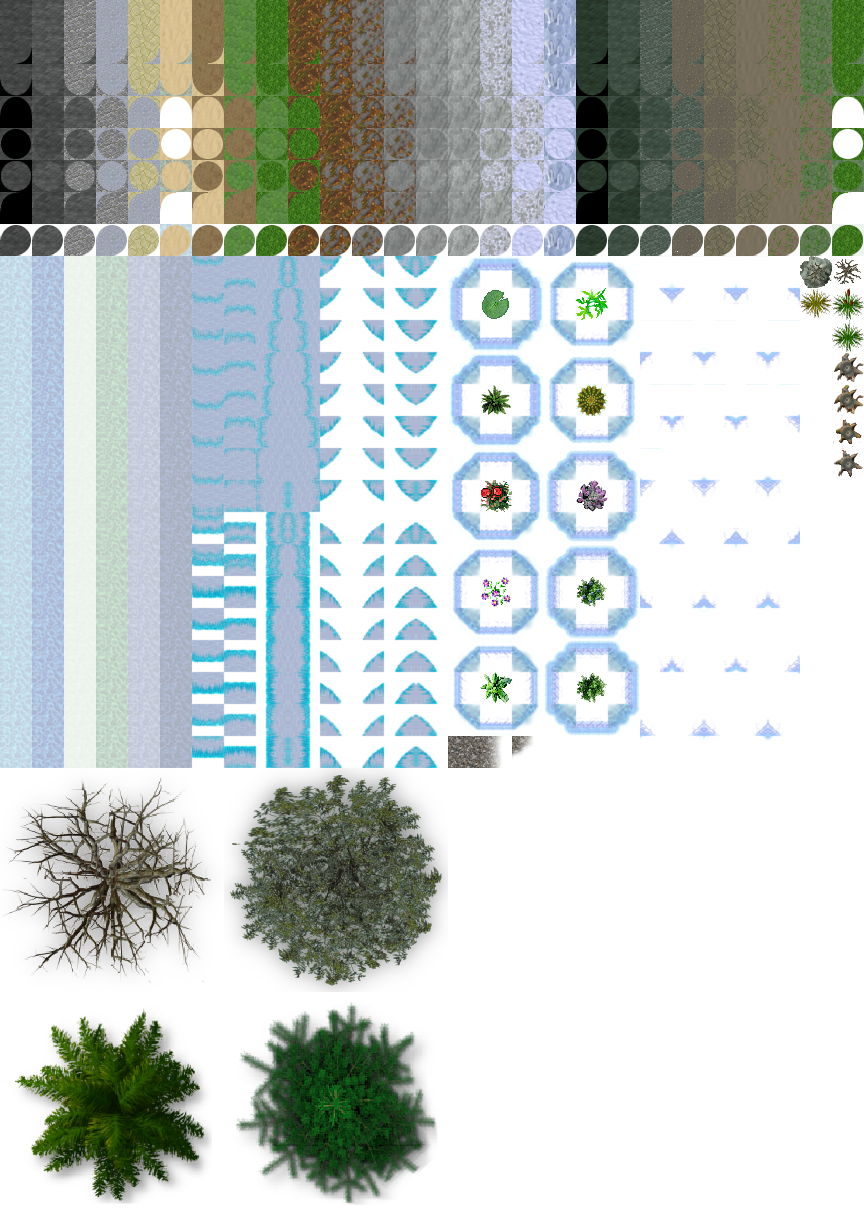
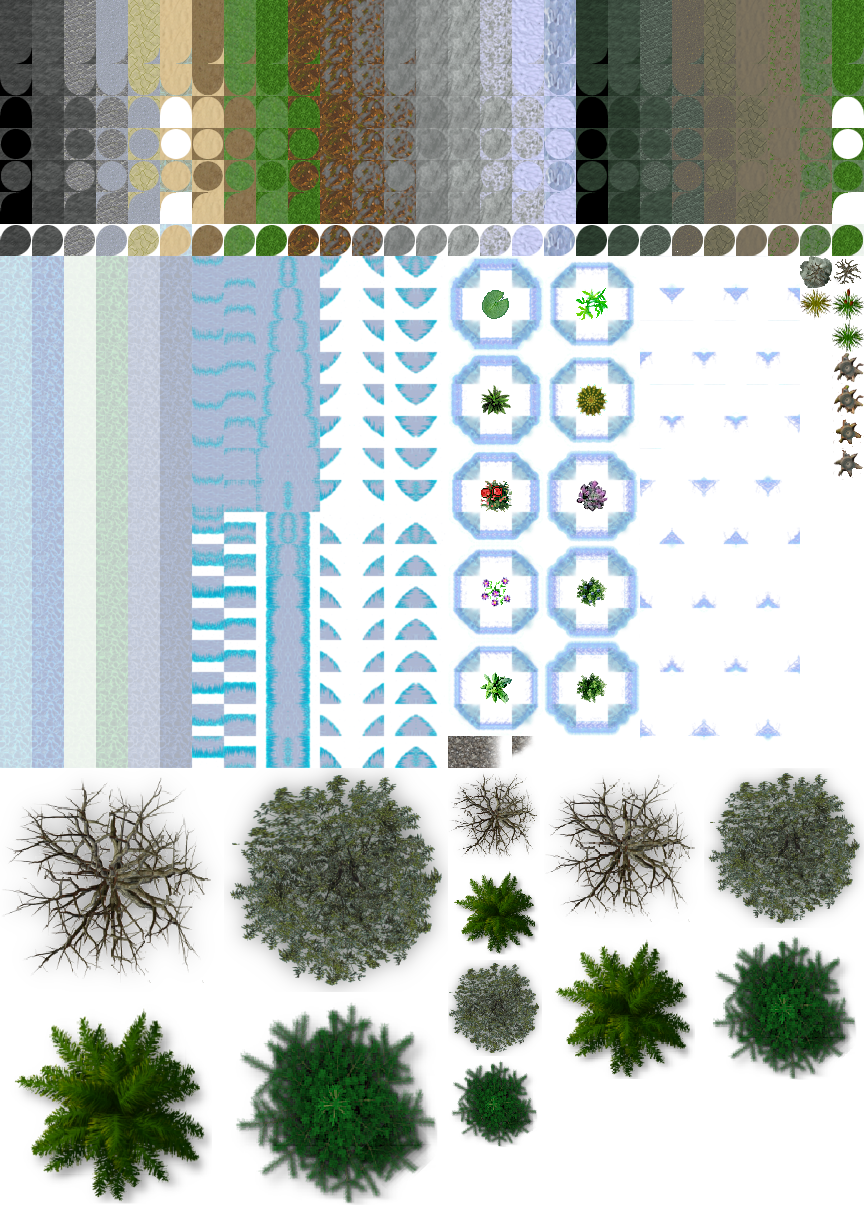
updated missing tree images
I replaced the wrong sprite sheet with the correct one, with all the tree sizes.

Changed region(s): [[0.5, 0.625, 1.0, 0.9688]]

diff --git a/main.py b/main.py
@@ -1009,7 +1009,6 @@ class Game:
         self.hud_hunger = 1
         self.hud_ammo1 = ''
         self.hud_ammo2 = ''
-        self.e_down = False
         self.draw_debug = False
         self.paused = False
         self.effects_sounds['level_start'].play()
@@ -1993,20 +1992,20 @@ class Game:
                     if hits[0].cost > 0:
                         if self.player.inventory['gold'] >= hits[0].cost:
                             self.message = 'Press ' + pg.key.name(self.key_map['interact']).upper() + ' to pay ' + str(hits[0].cost) + ' gold to sleep in bed.'
-                            if self.e_down:
+                            if self.player.e_down:
                                 self.player.inventory['gold'] -= hits[0].cost
                                 self.effects_sounds['cashregister'].play()
                                 self.sleep_in_bed()
                                 self.message_text = False
-                                self.e_down = False
+                                self.player.e_down = False
                         else:
                             self.message = 'You cannot afford this bed.'
                     else:
                         self.message = 'Press ' + pg.key.name(self.key_map['interact']).upper() + ' to sleep in bed.'
-                        if self.e_down:
+                        if self.player.e_down:
                             self.sleep_in_bed()
                             self.message_text = False
-                            self.e_down = False
+                            self.player.e_down = False
                 else:
                     self.message = 'You can not sleep in ' + hits[0].name + '.'
 
@@ -2015,17 +2014,17 @@ class Game:
             if hits:
                 self.message_text = True
                 self.message = pg.key.name(self.key_map['interact']).upper() + ' to use toilet'
-                if self.e_down:
+                if self.player.e_down:
                     self.use_toilet()
                     self.message_text = False
-                    self.e_down = False
+                    self.player.e_down = False
 
             # player hit corps
             hits = pg.sprite.spritecollide(self.player, self.corpses_on_screen, False)
             if hits:
                 self.message_text = True
                 self.message = pg.key.name(self.key_map['interact']).upper() + " to loot"
-                if self.e_down:
+                if self.player.e_down:
                     if not self.in_loot_menu:
                         self.in_loot_menu = True
                         self.in_menu = True
@@ -2047,26 +2046,26 @@ class Game:
                 self.message_text = True
                 if hits[0].locked:
                     self.message = hits[0].name + ' is locked. ' + pg.key.name(self.key_map['interact']).upper() + ' to unlock'
-                    if self.e_down:
+                    if self.player.e_down:
                         if not self.in_lock_menu:
                             self.in_lock_menu = self.in_menu = True
                             self.lock_menu = Lock_Menu(self, hits[0])
                             self.message_text = False
-                        self.e_down = False
+                        self.player.e_down = False
                 elif not hits[0].opened:
                     self.message = pg.key.name(self.key_map['interact']).upper() + ' to open'
-                    if self.e_down:
+                    if self.player.e_down:
                         hits[0].open = True
                         hits[0].close = False
                         self.message_text = False
-                        self.e_down = False
+                        self.player.e_down = False
                 elif hits[0].opened:
                     self.message = pg.key.name(self.key_map['interact']).upper() + ' to close'
-                    if self.e_down:
+                    if self.player.e_down:
                         hits[0].close = True
                         hits[0].open = False
                         self.message_text = False
-                        self.e_down = False
+                        self.player.e_down = False
 
             # player hit container
             hits = pg.sprite.spritecollide(self.player, self.containers, False)
@@ -2074,23 +2073,23 @@ class Game:
                 if not hits[0].inventory['locked']:
                     self.message_text = True
                     self.message = pg.key.name(self.key_map['interact']).upper() + ' to open'
-                    if self.e_down:
+                    if self.player.e_down:
                         if not self.in_loot_menu:
                             if hits[0] in self.chest_containers:
                                 self.effects_sounds['door open'].play()
                             self.in_loot_menu = True
                             self.loot_menu = Loot_Menu(self, hits[0])
                         self.message_text = False
-                        self.e_down = False
+                        self.player.e_down = False
                 else:
                     self.message_text = True
                     self.message = pg.key.name(self.key_map['interact']).upper() + ' to unlock'
-                    if self.e_down:
+                    if self.player.e_down:
                         if not self.in_lock_menu:
                             self.in_lock_menu = self.in_menu = True
                             self.lock_menu = Lock_Menu(self, hits[0])
                         self.message_text = False
-                        self.e_down = False
+                        self.player.e_down = False
 
 
             # Player is in talking range of NPC
@@ -2103,11 +2102,11 @@ class Game:
                             if now - self.last_dialogue > 2000:
                                 self.message_text = True
                                 self.message = pg.key.name(self.key_map['interact']).upper() + ' to talk'
-                                if self.e_down:
+                                if self.player.e_down:
                                     hits[0].target = self.player
                                     hits[0].talk_attempt = True
                                     self.message_text = False
-                                    self.e_down = False
+                                    self.player.e_down = False
             if self.dialogue_menu_npc:
                 self.dialogue_menu = Dialogue_Menu(self, self.dialogue_menu_npc)
 
@@ -2117,12 +2116,12 @@ class Game:
                 self.station_type = hits[0].kind
                 self.message_text = True
                 self.message = pg.key.name(self.key_map['interact']).upper() + ' to use ' + self.station_type
-                if self.e_down:
+                if self.player.e_down:
                     self.in_station_menu = True
                     self.in_menu = True
                     self.station_menu = Work_Station_Menu(self, hits[0].kind)
                     self.message_text = False
-                    self.e_down = False
+                    self.player.e_down = False
 
             # player hits elevation change
             hits = pg.sprite.spritecollide(self.player, self.elevations_on_screen, False)
@@ -2152,10 +2151,10 @@ class Game:
                     self.message_text = True
                     if self.message != "You are carrying too much weight.":
                         self.message = pg.key.name(self.key_map['interact']).upper() + 'to pick up'
-                    if self.e_down:
+                    if self.player.e_down:
                         if self.player.add_inventory(hit.item, 1):
                             #self.player.calculate_weight()
-                            self.e_down = False
+                            self.player.e_down = False
                             self.message_text = False
                             hit.kill()
                         else:
@@ -2224,30 +2223,30 @@ class Game:
                         if (hits[0].driver == None) and hits[0].living:
                             self.message_text = True
                             self.message = pg.key.name(self.key_map['interact']).upper() + " to enter, T to exit"
-                        if self.e_down:
+                        if self.player.e_down:
                             if hits[0].living:
                                 hits[0].possess(self.player)
                             self.message_text = False
-                            self.e_down = False
+                            self.player.e_down = False
 
                 hits = pg.sprite.spritecollide(self.player, self.vehicles_on_screen, False, pg.sprite.collide_circle_ratio(0.95))
                 if hits:
                     if not hits[0].occupied and hits[0].living:
                         self.message_text = True
                         self.message = pg.key.name(self.key_map['interact']).upper() + ' to enter, ' + pg.key.name(self.key_map['dismount']).upper() + ' to exit'
-                    if self.e_down:
+                    if self.player.e_down:
                         if hits[0].living:
                             hits[0].enter_vehicle(self.player)
                         self.message_text = False
-                        self.e_down = False
+                        self.player.e_down = False
                 hits = pg.sprite.spritecollide(self.player, self.flying_vehicles, False)
                 if hits:
                     if not hits[0].occupied and hits[0].living:
                         self.message_text = True
                         if self.message != "You need a key to operate this vehicle.":
                             self.message = pg.key.name(self.key_map['interact']).upper() + ' to enter, ' + pg.key.name(self.key_map['dismount']).upper() + ' to exit'
-                    if self.e_down:
-                        self.e_down = False
+                    if self.player.e_down:
+                        self.player.e_down = False
                         if hits[0].living:
                             if hits[0].kind == 'airship':
                                 if 'airship key' in self.player.inventory['items']:
@@ -2281,18 +2280,18 @@ class Game:
                     if hit in self.grabable_animals:
                         self.message_text = True
                         self.message = pg.key.name(self.key_map['interact']).upper() + ' to catch'
-                        if self.e_down:
+                        if self.player.e_down:
                             self.player.add_inventory(hit.item)
                             hit.kill()
                             self.message_text = False
-                            self.e_down = False
+                            self.player.e_down = False
                     elif hit.mountable:
                         self.message_text = True
                         self.message = pg.key.name(self.key_map['interact']).upper() + ' to mount, ' + pg.key.name(self.key_map['dismount']).upper() + ' to dismount'
-                        if self.e_down:
+                        if self.player.e_down:
                             hit.mount(self.player)
                             self.message_text = False
-                            self.e_down = False
+                            self.player.e_down = False
                     elif hit.touch_damage:
                          hit.does_melee_damage(self.player)
                     else:
@@ -2305,18 +2304,18 @@ class Game:
                         if hit in self.grabable_animals:
                             self.message_text = True
                             self.message = pg.key.name(self.key_map['interact']).upper() + ' to catch'
-                            if self.e_down:
+                            if self.player.e_down:
                                 self.player.inventory[hit.item_type].append(hit.item)
                                 hit.kill()
                                 self.message_text = False
-                                self.e_down = False
+                                self.player.e_down = False
                         elif hit.mountable:
                             self.message_text = True
                             self.message = pg.key.name(self.key_map['interact']).upper() + ' to mount, ' + pg.key.name(self.key_map['dismount']).upper() + ' to dismount'
-                            if self.e_down:
+                            if self.player.e_down:
                                 hit.mount(self.player)
                                 self.message_text = False
-                                self.e_down = False
+                                self.player.e_down = False
                         if hit.touch_damage:
                             hit.does_melee_damage(self.player)
                         else:
@@ -2811,14 +2810,14 @@ class Game:
                     self.player.weapon_hand = 'weapons2'
                     self.player.shoot()
                 else: # Prevents e_down from getting stuck on true
-                    self.e_down = False
+                    self.player.e_down = False
             if event.type == pg.MOUSEBUTTONUP: # Updates which hand should be attacking when mouse buttons change.
                 if pg.mouse.get_pressed() == (0, 0, 1) or pg.mouse.get_pressed() == (0, 1, 1):
                     self.player.weapon_hand = 'weapons'
                 elif pg.mouse.get_pressed() == (1, 0, 0) or pg.mouse.get_pressed() == (1, 1, 0):
                     self.player.weapon_hand = 'weapons2'
                 else: # Prevents e_down from getting stuck on true
-                    self.e_down = False
+                    self.player.e_down = False
             if event.type == pg.KEYDOWN:
                 if event.key == pg.K_ESCAPE:
                     self.in_settings_menu = True
@@ -2828,9 +2827,9 @@ class Game:
                     self.in_inventory_menu = True
                     self.in_menu = True
                 if event.key == self.key_map['interact']:
-                    self.e_down = True
+                    self.player.e_down = True
                 else:
-                    self.e_down = False
+                    self.player.e_down = False
                 #if event.key == pg.K_BACKQUOTE:  # Switches to last weapon
                 #    self.player.toggle_previous_weapons()
                 if event.key == self.key_map['skill']:

diff --git a/sprites.py b/sprites.py
@@ -71,12 +71,14 @@ def set_tile_props(sprite): # sets a variable that keeps track of the important 
     # Checks for plants to harvest
     if 'harvest' in sprite.tile_props:
         if sprite not in sprite.game.flying_vehicles:
-            sprite.game.message_text = True
-            sprite.game.message = pg.key.name(sprite.game.key_map['interact']).upper() + ' to harvest ' + sprite.tile_props['plant']
-            if sprite.game.e_down:
+            if sprite in sprite.game.players:
+                sprite.game.message_text = True
+                sprite.game.message = pg.key.name(sprite.game.key_map['interact']).upper() + ' to harvest ' + sprite.tile_props['plant']
+            if sprite.e_down:
                 harvest_plant(sprite)
-                sprite.game.message_text = False
-                sprite.game.e_down = False
+                if sprite in sprite.game.players:
+                    sprite.game.message_text = False
+                    sprite.e_down = False
 
 def harvest_plant(sprite):
     x = int(sprite.pos.x / sprite.game.map.tile_size)
@@ -1437,6 +1439,7 @@ class Player(pg.sprite.Sprite):
         self.last_throw = 0
         self.last_climb = 0
         # Player state variables
+        self.e_down = False # Used for the interact button.
         self.dragon = False
         self.temp_equipped = None # Used for switching your body to a mech suit or for Wraith possession.
         self.possessing = None
